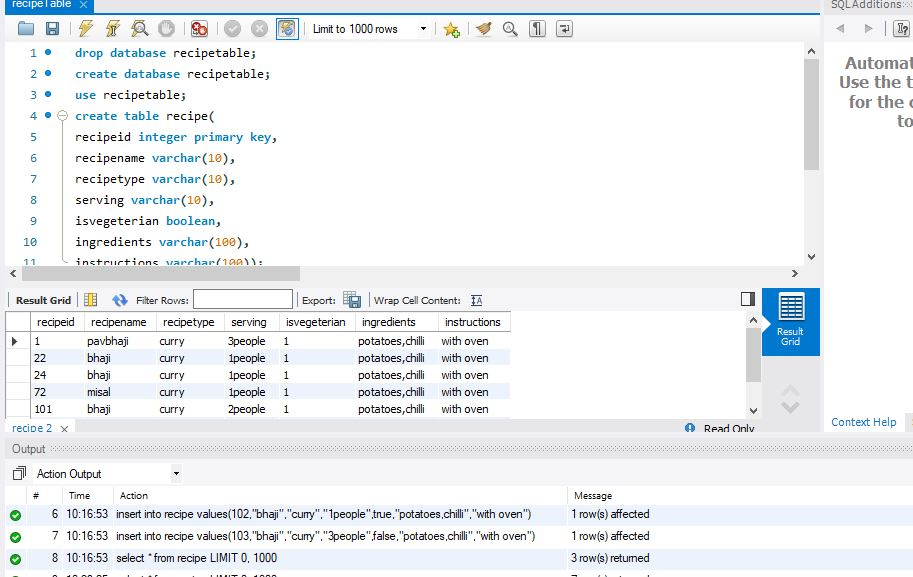
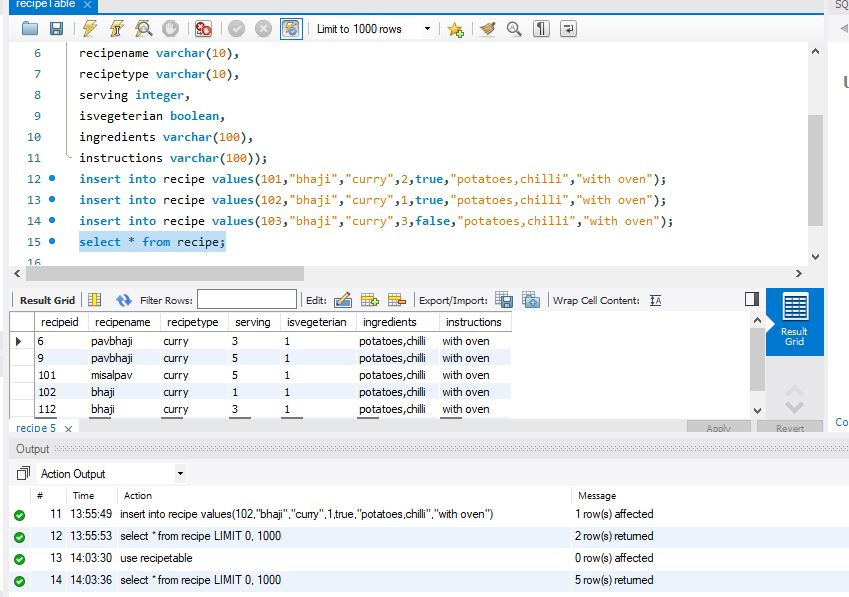
admin

Changed region(s): [[0.0, 0.0, 1.0, 1.0], [0.8575, 0.0936, 1.0, 0.3744], [0.6125, 0.8111, 0.7656, 1.0]]

diff --git a/src/test/java/com/recipe/RecipeApplicationTests.java b/src/test/java/com/recipe/RecipeApplicationTests.java
@@ -1,13 +1,13 @@
 package com.recipe;
 
+import static org.assertj.core.api.Assertions.assertThat;
 import static org.junit.jupiter.api.Assertions.assertEquals;
+import static org.mockito.Mockito.times;
+import static org.mockito.Mockito.verify;
 import static org.mockito.Mockito.when;
-
 import java.util.ArrayList;
-
 import java.util.List;
 import java.util.Optional;
-
 import org.junit.jupiter.api.Assertions;
 import org.junit.jupiter.api.Test;
 import org.junit.runner.RunWith;
@@ -15,11 +15,13 @@ import org.mockito.InjectMocks;
 import org.mockito.Mock;
 import org.mockito.Mockito;
 import org.springframework.boot.test.context.SpringBootTest;
+import org.springframework.test.annotation.Rollback;
 import org.springframework.test.context.junit4.SpringRunner;
 import com.recipe.dto.RecipesDTO;
 import com.recipe.entity.Recipes;
 import com.recipe.repository.RecipesRepository;
 import com.recipe.service.RecipesService;
+import static org.mockito.BDDMockito.willDoNothing;
 
 @SpringBootTest
 @RunWith(SpringRunner.class)
@@ -32,13 +34,15 @@ public class RecipeApplicationTests {
 	@InjectMocks
 	RecipesService recipesService = new RecipesService();
 
+	// private Recipes recipes;
+
 	@Test
 	public void getRecipesTest() throws Exception {
 
 		List<Recipes> recipeList = new ArrayList<Recipes>();
 		Recipes recipeEntity = new Recipes();
 		recipeEntity.setRecipeid(104);
-		recipeEntity.setserving("4people");
+		recipeEntity.setserving(4);
 		recipeEntity.setRecipeName("misalpav");
 		recipeEntity.setRecipeType("curry");
 		recipeEntity.setIngredients("potatoes,chilli");
@@ -56,9 +60,19 @@ public class RecipeApplicationTests {
 
 	@Test
 	public void addRecipeTest() {
-		Recipes recipes1 = new Recipes(100, "misal", "curry", "2people", true, "potatoes,chilli", "with oven");
+		Recipes recipes1 = new Recipes(100, "misal", "curry", 2, true, "potatoes,chilli", "with oven");
 		when(recipesRepository.save(recipes1)).thenReturn(recipes1);
 		assertEquals(recipes1, recipesService.addRecipe(recipes1));
+	}
+
+	@Test
+	public void deleteRecipeByIdTest() {
+
+		long recipeid = 1L;
+		willDoNothing().given(recipesRepository).deleteById(recipeid);
+		recipesService.deleteRecipeById(recipeid);
+		verify(recipesRepository, times(1)).deleteById(recipeid);
+
 	}
 
 }

diff --git a/src/main/java/com/recipe/entity/Recipes.java b/src/main/java/com/recipe/entity/Recipes.java
@@ -22,8 +22,7 @@ public class Recipes {
 	String recipeType;
 
 	@Column(name = "serving")
-	String serving;
-
+	Integer serving;
 
 	@Column(nullable = false, name = "isvegeterian")
 	boolean isVegeterian;
@@ -58,11 +57,11 @@ public class Recipes {
 		this.recipeType = recipeType;
 	}
 
-	public String getserving() {
+	public Integer getserving() {
 		return serving;
 	}
 
-	public void setserving(String serving) {
+	public void setserving(Integer serving) {
 		this.serving = serving;
 	}
 
@@ -95,7 +94,7 @@ public class Recipes {
 
 	}
 
-	public Recipes(long recipeid, String recipeName, String recipeType, String serving, boolean isVegeterian,
+	public Recipes(long recipeid, String recipeName, String recipeType, Integer serving, boolean isVegeterian,
 			String ingredients, String instructions) {
 		super();
 		this.recipeid = recipeid;
@@ -106,8 +105,7 @@ public class Recipes {
 		this.ingredients = ingredients;
 		this.instructions = instructions;
 	}
-	
-	
+
 	@Override
 	public String toString() {
 		return "Recipes [recipeid=" + recipeid + ", recipeName=" + recipeName + ", recipeType=" + recipeType

diff --git a/src/main/java/com/recipe/dto/RecipesDTO.java b/src/main/java/com/recipe/dto/RecipesDTO.java
@@ -6,7 +6,7 @@ public class RecipesDTO {
 	long recipeid;
 	String recipeName;
 	String recipeType;
-	String serving;
+	Integer serving;
 	boolean isVegeterian;
 	String ingredients;
 	String instructions;
@@ -16,7 +16,7 @@ public class RecipesDTO {
 		// TODO Auto-generated constructor stub
 	}
 
-	public RecipesDTO(long recipeid, String recipeName, String recipeType, String serving, boolean isVegeterian,
+	public RecipesDTO(long recipeid, String recipeName, String recipeType, Integer serving, boolean isVegeterian,
 			String ingredients, String instructions) {
 		super();
 		this.recipeid = recipeid;
@@ -52,11 +52,11 @@ public class RecipesDTO {
 		this.recipeType = recipeType;
 	}
 
-	public String getserving() {
+	public Integer getserving() {
 		return serving;
 	}
 
-	public void setserving(String serving) {
+	public void setserving(Integer serving) {
 		this.serving = serving;
 	}
 

diff --git a/src/main/java/com/recipe/service/RecipesService.java b/src/main/java/com/recipe/service/RecipesService.java
@@ -15,7 +15,6 @@ import com.recipe.repository.RecipesRepository;
 
 @Service
 public class RecipesService {
-	Logger logger = LoggerFactory.getLogger(this.getClass());
 
 	@Autowired
 	private RecipesRepository recipesRepository;
@@ -48,9 +47,9 @@ public class RecipesService {
 
 	// updates recipe
 
-	public void updaterecipe(Recipes recipe) {
+	public void updateRecipe(Recipes recipe) {
 		// check if the recipe with passed id exists or not
-		Recipes recipeA = recipesRepository.findById(recipe.getRecipeid()).orElseThrow();
+		Recipes recipe1 = recipesRepository.findById(recipe.getRecipeid()).orElseThrow();
 		// if recipe exists then updated
 		recipesRepository.save(recipe);
 

diff --git a/src/main/java/com/recipe/controller/RecipeController.java b/src/main/java/com/recipe/controller/RecipeController.java
@@ -31,8 +31,6 @@ import com.recipe.service.RecipesService;
 @Transactional
 public class RecipeController {
 
-	Logger logger = LoggerFactory.getLogger(this.getClass());
-
 	@Autowired
 	private RecipesService recipesService;
 
@@ -58,9 +56,9 @@ public class RecipeController {
 
 //update record
 	@PutMapping("/updaterecipe")
-	public ResponseEntity<String> updaterecipe(@RequestBody Recipes recipe) {
+	public ResponseEntity<String> updateRecipe(@RequestBody Recipes recipe) {
 		try {
-			recipesService.updaterecipe(recipe);
+			recipesService.updateRecipe(recipe);
 			return new ResponseEntity<String>(HttpStatus.OK);
 
 		} catch (NoSuchElementException ex) {

diff --git a/src/main/java/com/recipe/repository/RecipesRepository.java b/src/main/java/com/recipe/repository/RecipesRepository.java
@@ -1,15 +1,15 @@
 package com.recipe.repository;
 
 import java.util.List;
+import java.util.Optional;
 
 import org.springframework.data.jpa.repository.JpaRepository;
 
 import org.springframework.stereotype.Repository;
 
 import com.recipe.entity.Recipes;
+
 @Repository
 public interface RecipesRepository extends JpaRepository<Recipes, Long> {
 
-	//List<Recipes> searchrecipes(String recipename);
-	
 }
